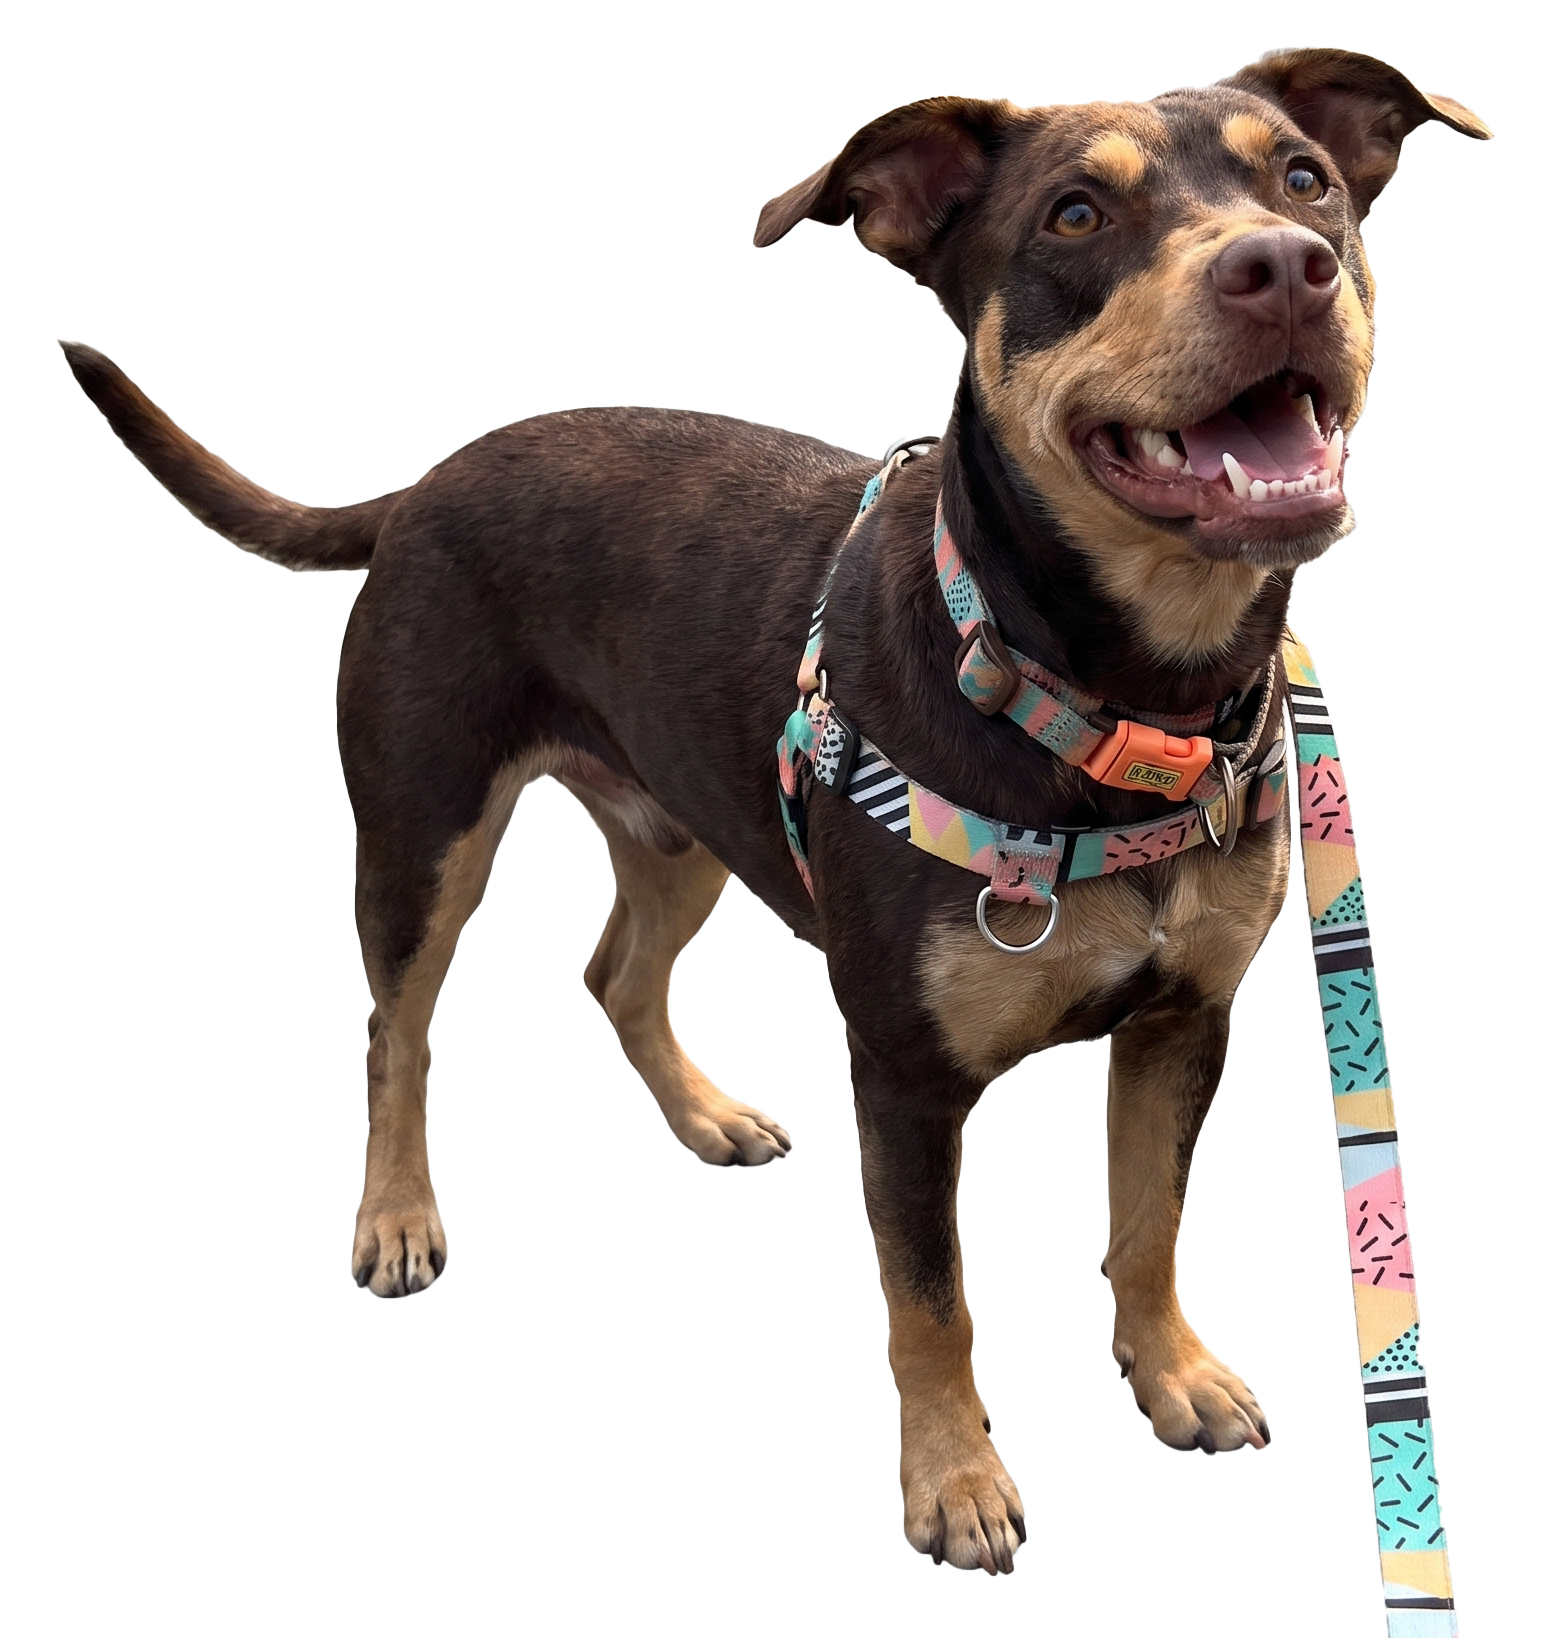
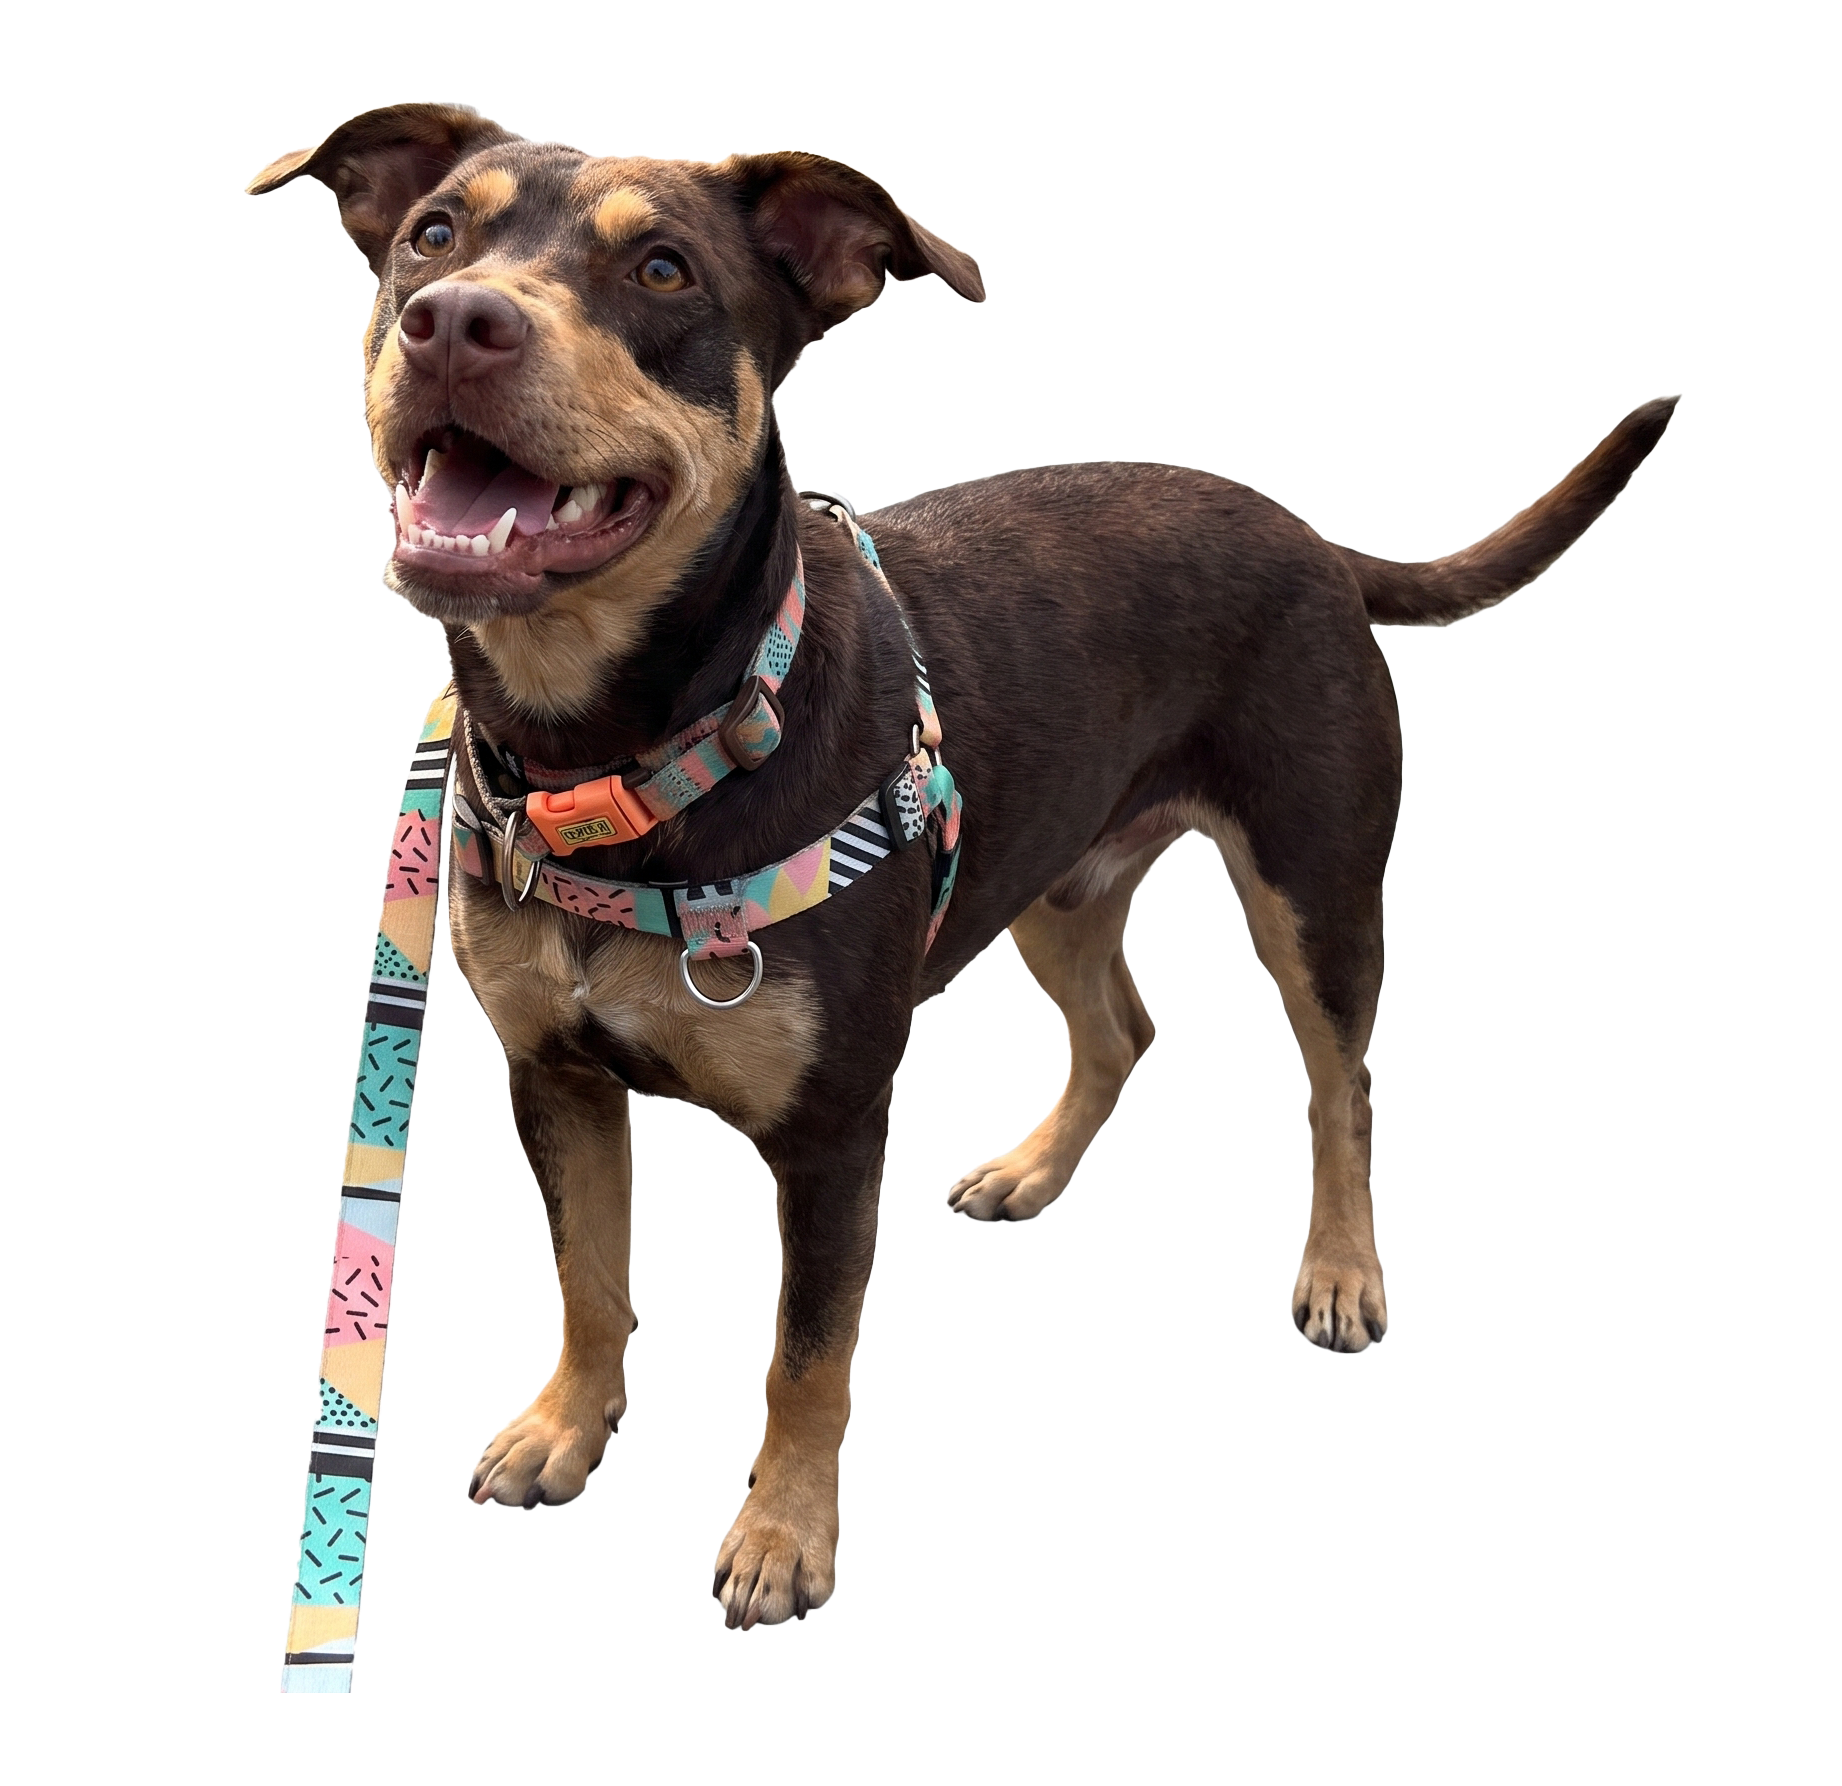
fin pc

diff --git a/styles.css b/styles.css
@@ -2522,8 +2522,8 @@ body {
     position: relative;
     width: 100%;
     background-color: #fff8e7;
-    padding: 110px 0 35px;
-    /* Reduced bottom padding */
+    padding: 110px 0 110px;
+    /* Restored/increased bottom padding for breathing room */
 }
 
 .contact-container {
@@ -2655,119 +2655,117 @@ body {
     box-shadow: 0 12px 30px rgba(37, 211, 102, 0.45);
 }
 
-/* Contact dog illustration */
-.contact-dog-illustration {
-    display: flex;
-    justify-content: center;
-    margin-top: 25px;
+/* Right Column wrapper */
+.contact-info-wrap {
     position: relative;
-    z-index: 2;
+    /* Anchor for dog overlay */
 }
 
-.contact-illustration-img {
-    max-height: 230px;
-    width: auto;
-    object-fit: contain;
-    filter: drop-shadow(0 10px 20px rgba(77, 38, 15, 0.12));
-    animation: floatDog 5s ease-in-out infinite;
-}
-
-@keyframes floatDog {
-
-    0%,
-    100% {
-        transform: translateY(0) rotate(0deg);
-    }
-
-    50% {
-        transform: translateY(-6px) rotate(1deg);
-    }
-}
-
-@media (max-width: 576px) {
-    .contact-illustration-img {
-        max-height: 180px;
-    }
-}
-
-
+/* Map Placeholder containing Map Iframe */
 .contact-map-placeholder {
     width: 100%;
-    height: 320px;
+    height: 340px;
     background: #e8d5b0;
     border-radius: 20px;
-    margin-bottom: 24px;
     border: 2px solid rgba(77, 38, 15, 0.12);
     overflow: hidden;
-    transition: transform 0.3s ease, box-shadow 0.3s ease;
+    transition: transform 0.3s cubic-bezier(0.25, 0.8, 0.25, 1), box-shadow 0.3s ease;
     box-shadow: 0 4px 20px rgba(77, 38, 15, 0.06);
 }
 
 .contact-map-placeholder:hover {
-    transform: scale(1.005);
+    transform: translateY(-2px);
     box-shadow: 0 8px 30px rgba(77, 38, 15, 0.1);
 }
 
-.contact-info-cards {
-    display: grid;
-    grid-template-columns: 1fr 1fr;
-    /* Side-by-side layout */
-    gap: 16px;
+/* Decorative dog overlay peeking over the bottom-left corner of the map */
+.contact-map-dog {
+    position: absolute;
+    bottom: -40px;
+    right: -70px;
+    width: 180px;
+    /* Larger dog */
+    height: auto;
+    z-index: 10;
+    /* Float above map border */
+    pointer-events: none;
+    /* User can click map underneath */
+    filter: drop-shadow(0 8px 24px rgba(77, 38, 15, 0.25));
+    transition: transform 0.3s cubic-bezier(0.25, 0.8, 0.25, 1);
 }
 
-.contact-info-card {
+.contact-info-wrap:hover .contact-map-dog {
+    transform: scale(1.04) rotate(1.5deg) translateY(-2px);
+}
+
+/* Centered elongated location and hours badges at bottom of Contact section */
+.contact-badges-row {
     display: flex;
-    align-items: flex-start;
-    gap: 16px;
-    background: #fff;
-    border-radius: 14px;
-    padding: 18px 20px;
-    border: 1.5px solid rgba(77, 38, 15, 0.1);
-    box-shadow: 0 2px 10px rgba(77, 38, 15, 0.05);
+    justify-content: center;
+    align-items: center;
+    gap: 20px;
+    margin-top: 45px;
+    flex-wrap: wrap;
+    width: 100%;
+    max-width: 1160px;
+    margin-left: auto;
+    margin-right: auto;
+    padding: 0 60px;
+}
+
+.contact-badge-info {
+    display: inline-flex;
+    align-items: center;
+    gap: 12px;
+    font-family: var(--font-body);
+    font-size: 15px;
+    font-weight: 500;
+    color: var(--dark-brown);
+    background: rgba(255, 255, 255, 0.88);
+    border: 1.5px solid rgba(77, 38, 15, 0.15);
+    border-radius: 100px;
+    padding: 10px 32px;
+    box-shadow: 0 4px 12px rgba(77, 38, 15, 0.04);
     transition: transform 0.3s ease, box-shadow 0.3s ease;
 }
 
-.contact-info-card:hover {
-    transform: translateY(-3px);
-    box-shadow: 0 6px 20px rgba(77, 38, 15, 0.1);
+.contact-badge-info:hover {
+    transform: translateY(-2px);
+    box-shadow: 0 6px 18px rgba(77, 38, 15, 0.08);
 }
 
-@media (max-width: 600px) {
-    .contact-info-cards {
-        grid-template-columns: 1fr;
-        /* Stack vertically on small screens */
-    }
-}
-
-
-.cic-icon {
-    font-size: 28px;
-    flex-shrink: 0;
+.contact-badge-icon {
+    font-size: 18px;
     line-height: 1;
-    margin-top: 2px;
 }
 
-.contact-info-card strong {
+.contact-badge-title {
     font-family: var(--font-heading);
-    font-size: 15px;
     font-weight: 700;
     color: var(--dark-brown);
-    display: block;
-    margin-bottom: 4px;
-}
-
-.contact-info-card p {
-    font-family: var(--font-body);
-    font-size: 14px;
-    color: #6b4c2a;
-    line-height: 1.5;
-    margin: 0;
+    margin-right: 4px;
 }
 
 @media (max-width: 1024px) {
     .contact-container {
         grid-template-columns: 1fr;
         gap: 40px;
+    }
+}
+
+@media (max-width: 768px) {
+    .contact-badges-row {
+        flex-direction: column;
+        align-items: stretch;
+        padding: 0 20px;
+        margin-top: 30px;
+        gap: 12px;
+    }
+
+    .contact-badge-info {
+        border-radius: 20px;
+        padding: 12px 24px;
+        justify-content: flex-start;
     }
 }
 
@@ -2778,10 +2776,6 @@ body {
 
     .contact-container {
         padding: 0 20px;
-    }
-
-    .form-row {
-        grid-template-columns: 1fr;
     }
 }
 
@@ -2794,8 +2788,8 @@ body {
     width: 100%;
     background-color: #fff8e7;
     /* Warm cream background */
-    padding: 35px 0 110px;
-    /* Reduced top padding */
+    padding: 95px 0 110px;
+    /* Restored top padding */
 }
 
 .faq-container {

diff --git a/index.html b/index.html
@@ -446,11 +446,6 @@
                         <span class="btn-chat-text">Chat on WhatsApp</span>
                     </a>
                 </div>
-
-                <!-- Dog illustration ready for walk -->
-                <div class="contact-dog-illustration">
-                    <img src="assets/dog4.png" alt="Happy dog ready for a walk with leash" class="contact-illustration-img">
-                </div>
             </div>
 
             <!-- Right: map & info -->
@@ -459,23 +454,54 @@
                 <div class="contact-map-placeholder" id="contactMap">
                     <iframe src="https://www.google.com/maps/embed?pb=!1m18!1m12!1m3!1d46726.06456073177!2d147.28489721750244!3d-42.88213640024479!2m3!1f0!2f0!3f0!3m2!1i1024!2i768!4f13.1!3m3!1m2!1s0x7ca429fc7f79435b%3A0x503c94dd0de1240!2sHobart%20TAS%207000%2C%20Australia!5e0!3m2!1sen!2sau!4v1710000000000!5m2!1sen!2sau" width="100%" height="100%" style="border:0;" allowfullscreen="" loading="lazy" referrerpolicy="no-referrer-when-downgrade"></iframe>
                 </div>
+                <img src="assets/dog4.png" alt="Happy dog ornament" class="contact-map-dog">
+            </div>
 
-                <!-- Info cards -->
-                <div class="contact-info-cards">
-                    <div class="contact-info-card">
-                        <span class="cic-icon">📍</span>
-                        <div>
-                            <strong>Location</strong>
-                            <p>Hobart Town, TAS<br>Australia 7000</p>
-                        </div>
-                    </div>
-                    <div class="contact-info-card">
-                        <span class="cic-icon">🕐</span>
-                        <div>
-                            <strong>Hours</strong>
-                            <p>Mon – Sun: 7 am – 8 pm<br>Available on public holidays</p>
-                        </div>
-                    </div>
+        </div>
+
+        <!-- Centered elongated location and hours badges -->
+        <div class="contact-badges-row">
+            <div class="contact-badge-info">
+                <span class="contact-badge-icon">📍</span>
+                <span class="contact-badge-title">Location:</span>
+                <span>Hobart Town, TAS, Australia 7000</span>
+            </div>
+            <div class="contact-badge-info">
+                <span class="contact-badge-icon">🕐</span>
+                <span class="contact-badge-title">Hours:</span>
+                <span>Mon – Sun · 7 am – 8 pm (Holidays Available)</span>
+            </div>
+        </div>
+    </section>
+
+    <!-- ================================================================
+         Final CTA Section
+    ================================================================ -->
+    <section class="cta-section" id="cta">
+        <!-- Floating bg paws -->
+        <img src="assets/huella.png" alt="" class="cta-bg-paw cta-paw--1">
+        <img src="assets/huella.png" alt="" class="cta-bg-paw cta-paw--2">
+        <img src="assets/huella.png" alt="" class="cta-bg-paw cta-paw--3">
+        <img src="assets/huella.png" alt="" class="cta-bg-paw cta-paw--4">
+        <img src="assets/huella.png" alt="" class="cta-bg-paw cta-paw--5">
+        <img src="assets/huella.png" alt="" class="cta-bg-paw cta-paw--6">
+
+        <div class="cta-container">
+            <!-- Side Dogs (illustrated cutouts) -->
+            <img src="assets/dog2.png" alt="Group of happy dogs" class="cta-side-dog cta-side-dog--left">
+            <img src="assets/dog3.png" alt="Happy Rottweiler dog looking left" class="cta-side-dog cta-side-dog--right">
+
+
+            <div class="cta-content cta-content--centered">
+                <span class="cta-label">Start the Fun</span>
+                <h2 class="cta-heading">Ready to Start Your Dog's <em>Journey?</em></h2>
+                <p class="cta-subtext">From wagging tails to gentle purrs — we're here for every pet in your family. Let's make your dog's day unforgettable.</p>
+                <div class="cta-buttons">
+                    <a href="https://wa.me/61424000318?text=Hi%20Evan%20and%20Gladys%2C%20I%27m%20ready%20to%20start%20my%20dog%27s%20journey%20and%20book%20a%20session%20now%21" target="_blank" rel="noopener" class="btn-cta-primary">Book Now 🐾</a>
+                    <a href="https://wa.me/61424000318?text=Hi%20Evan%20and%20Gladys%2C%20I%27d%20like%20to%20schedule%20a%20chat%20or%20call%20with%20you%20about%20my%20dog%20care%20needs.%20Let%20me%20know%20when%20you%27re%20free%21" target="_blank" rel="noopener" class="btn-cta-secondary">
+                        <span class="cta-phone-icon">📞</span>
+                        Schedule a Call
+                    </a>
                 </div>
             </div>
 
@@ -558,40 +584,6 @@
                 </div>
 
             </div>
-        </div>
-    </section>
-
-    <!-- ================================================================
-         Final CTA Section
-    ================================================================ -->
-    <section class="cta-section" id="cta">
-        <!-- Floating bg paws -->
-        <img src="assets/huella.png" alt="" class="cta-bg-paw cta-paw--1">
-        <img src="assets/huella.png" alt="" class="cta-bg-paw cta-paw--2">
-        <img src="assets/huella.png" alt="" class="cta-bg-paw cta-paw--3">
-        <img src="assets/huella.png" alt="" class="cta-bg-paw cta-paw--4">
-        <img src="assets/huella.png" alt="" class="cta-bg-paw cta-paw--5">
-        <img src="assets/huella.png" alt="" class="cta-bg-paw cta-paw--6">
-
-        <div class="cta-container">
-            <!-- Side Dogs (illustrated cutouts) -->
-            <img src="assets/dog2.png" alt="Group of happy dogs" class="cta-side-dog cta-side-dog--left">
-            <img src="assets/dog3.png" alt="Happy Rottweiler dog looking left" class="cta-side-dog cta-side-dog--right">
-
-
-            <div class="cta-content cta-content--centered">
-                <span class="cta-label">Start the Fun</span>
-                <h2 class="cta-heading">Ready to Start Your Dog's <em>Journey?</em></h2>
-                <p class="cta-subtext">From wagging tails to gentle purrs — we're here for every pet in your family. Let's make your dog's day unforgettable.</p>
-                <div class="cta-buttons">
-                    <a href="https://wa.me/61424000318?text=Hi%20Evan%20and%20Gladys%2C%20I%27m%20ready%20to%20start%20my%20dog%27s%20journey%20and%20book%20a%20session%20now%21" target="_blank" rel="noopener" class="btn-cta-primary">Book Now 🐾</a>
-                    <a href="https://wa.me/61424000318?text=Hi%20Evan%20and%20Gladys%2C%20I%27d%20like%20to%20schedule%20a%20chat%20or%20call%20with%20you%20about%20my%20dog%20care%20needs.%20Let%20me%20know%20when%20you%27re%20free%21" target="_blank" rel="noopener" class="btn-cta-secondary">
-                        <span class="cta-phone-icon">📞</span>
-                        Schedule a Call
-                    </a>
-                </div>
-            </div>
-
         </div>
     </section>
 

diff --git a/script.js b/script.js
@@ -446,7 +446,7 @@ document.addEventListener('DOMContentLoaded', () => {
        10. Scroll Spy - Active Navigation Link Highlight
        ========================================================================== */
     const navLinks = document.querySelectorAll('.nav-link');
-    const sectionsToSpy = ['hero', 'about', 'services', 'gallery', 'faq', 'contact'];
+    const sectionsToSpy = ['hero', 'about', 'services', 'gallery', 'contact', 'faq'];
 
     function scrollSpyHighlight() {
         let activeId = 'hero';